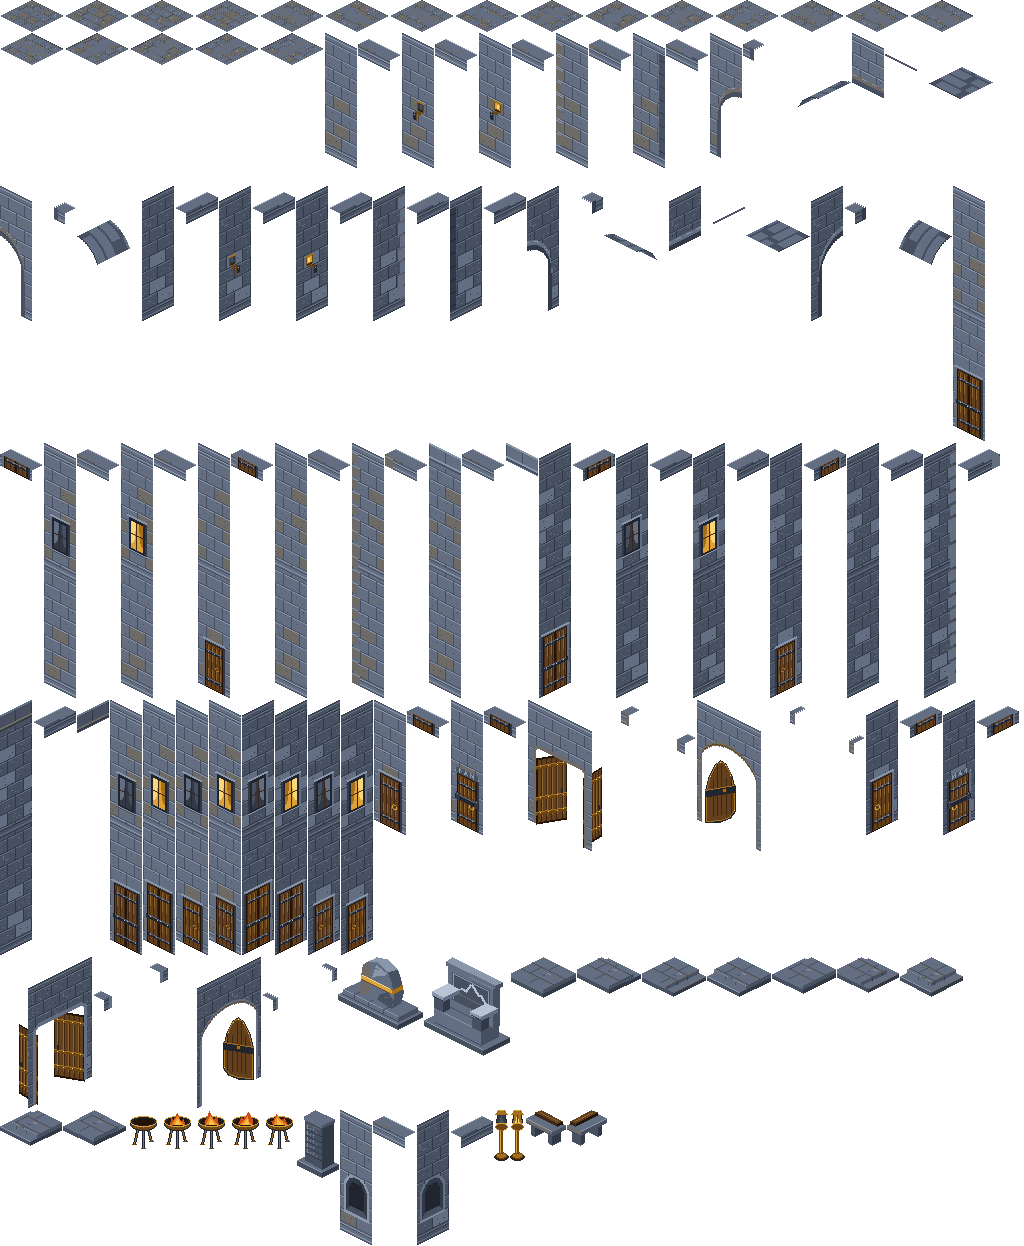
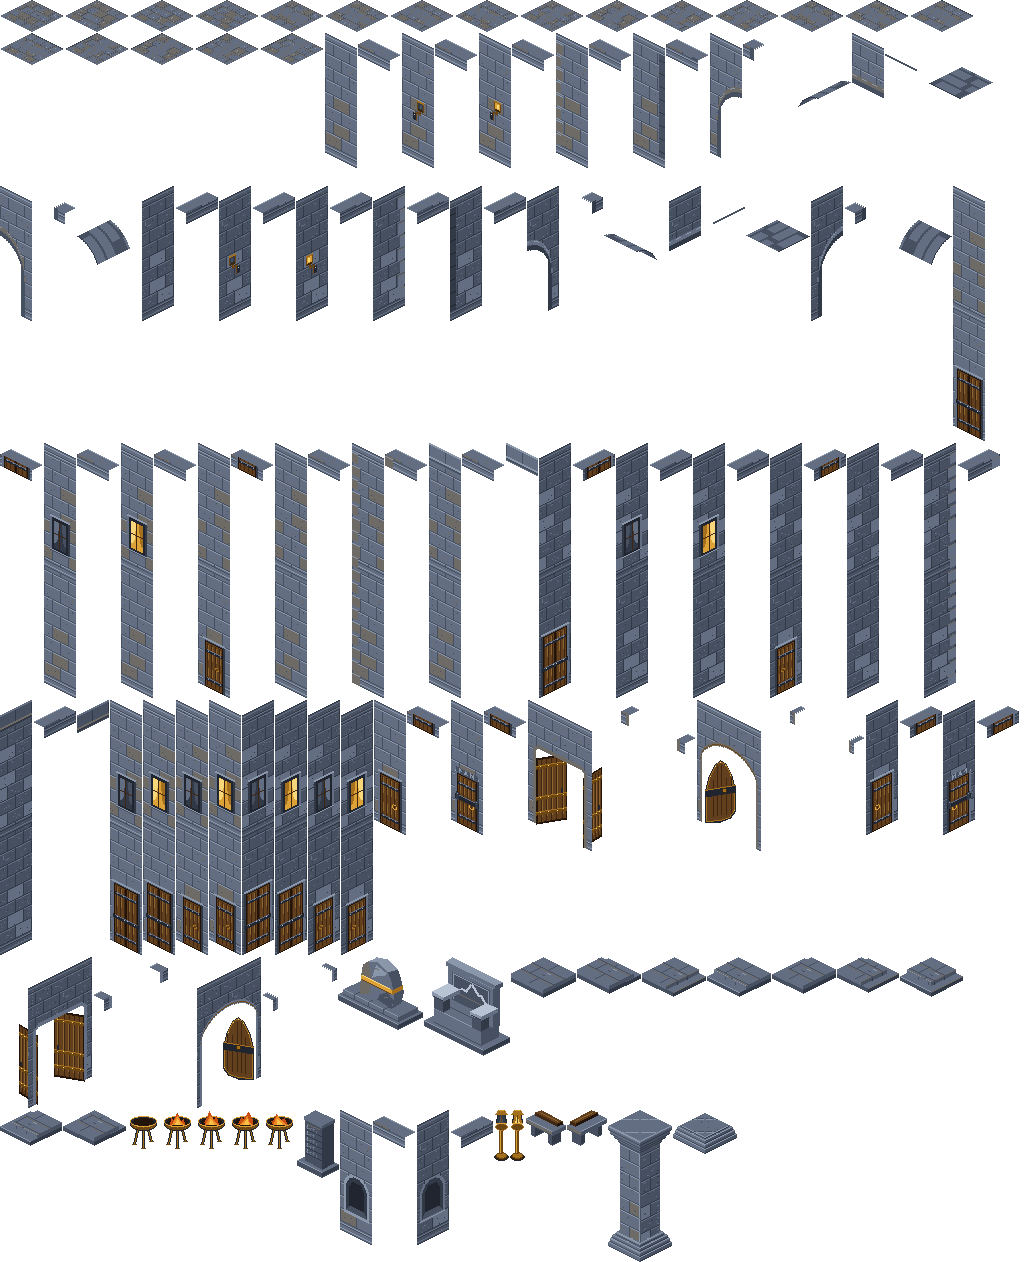
Solskaft: the temple pillar drawn from the art desk's ART-134 page 06
tools/solskaft-sheet.py takes page 06 (its CELLS.json anchored by the top
vertex already, so not moved from a centre); skstone_p1 gains temple_pillar
and its stub, both VERIFIED. deep16/js/skart.js ST.PIC.pillar: the cell in
place of the code's pillars, four down each closed temple's sides. The look
only: no square, door or way moves (bench solskaft1111 26 ok). An eyes row,
eyes-solskaft-pillar-1112b.

diff --git a/js/eyes.js b/js/eyes.js
@@ -77,6 +77,15 @@
     'eyes-solskaft-asdis-art-1112': { pri: 1, group: G2, title: 'ÁSDÍS SCALEBEAM\'S ROOM DRAWN from the art desk\'s page (11-12)', pt: 'the story build lane, 2026-11-12 (the Sólskaft cutter; deep16/js/skart.js)',
       url: 'deep16/?solskaft&fresh=1112d',
       look: 'Her room from ART-138, the look only: the show\'s asdis beat. Her hearth burning low in the north wall, the crockery shelf, the lit window, her table, her cot by the east wall, the stair head by the narrow door. JUDGE: the lit window is on the north wall where the camera sees it (the E word for the window still stands by the east wall).' },
+    'eyes-solskaft-pillar-1112b': { pri: 2, group: G2, title: 'SÓLSKAFT\'S TEMPLE PILLARS DRAWN: the art desk\'s pillar in place of the code\'s, four a side (11-12)', pt: 'the story build lane, 2026-11-12 (the ART-139 cutter; deep16/js/skart.js ST.PIC.pillar, tools/solskaft-sheet.py)',
+      url: 'deep16/?solskaft&beat=templestair&fresh=1112b',
+      look: 'The temple pillar the Sólskaft cutter asked after (ART-134 page 06): a square shaft of dressed granite on a stepped plinth, a capital on top, in place of the code\'s grey boxes -- four down the sides of each closed temple, nothing moved. The door opens in Rekknar\'s temple by the stair; the walls open round the party as you walk the hall. JUDGE: the pillar\'s height under the hall\'s walls; that it stands on its square\'s middle. &props=code shows the old pillars beside it.' },
+    'eyes-art139-portraits-1112': { pri: 1, group: G2, title: 'DORAN WITH THE WOODAXE, and the kept child as the girl and as the goblin: three talking portraits (11-12)', pt: 'the Halfway Inn lane, 2026-11-12 (the ART-139 cutter; tools/portrait-sheet.py doranaxe, keptchild, glamourgoblin)',
+      url: 'deep16/?portraits&who=doranaxe,keptchild,glamourgoblin&fresh=1112c',
+      look: 'Your "worth \'doran with an axe\' portraits" and "art request for girl and goblin", come back from the art desk (ART-139). Doran at the chopping block: idle, attentive, axe low, concerned, and the work -- the axe set down on the block, both hands on the haft. The girl: idle, afraid, looking up. The goblin of the glamour: idle, afraid -- cut at the girl\'s size and height, so the one swaps for the other when the glamour breaks. Doran\'s click at the woodpile wears his already; the girl\'s and the goblin\'s wait on the inn seat to name them in the yard\'s talk. JUDGE: the goblin reads as her with ears and olive skin, not the figure\'s green goblin -- enough for the glamour?' },
+    'eyes-keptchild-figure-1112': { pri: 1, group: G2, title: 'THE KEPT CHILD\'S OWN FIGURE on the floor, all eight facings (11-12)', pt: 'the Halfway Inn lane, 2026-11-12 (the ART-139 cutter; tools/keptchild-sheet.py keptchild_p1, deep16/data/foes.js keptchild)',
+      url: 'deep16/?rows=keptchild&sheet=keptchild_p1&fresh=1112d',
+      look: 'Ruling 42, a figure of her own: the girl in her too-big undyed dress, barefoot, idle and walking, the five drawn views and their mirrors (comma and period turn her). She stands at the townsfolk child\'s size, feet where the glamour\'s goblin stands. The art desk holds four of the walks (S, SE, NE, N: the legs\' exchange and the ankle mark) -- cut as drawn. JUDGE: the walks at the grid\'s pace. Not yet worn in the inn: the inn seat swaps her in for the townsfolk child.' },
     'eyes-solskaft-street-art-1112': { pri: 1, group: G2, title: 'SÓLSKAFT\'S STREET LEVEL DRAWN from the art desk\'s tiles and props (11-12)', pt: 'the story build lane, 2026-11-12 (the Sólskaft cutter; deep16/js/skart.js)',
       url: 'deep16/?solskaft&fresh=1112a',
       look: 'Your "we\'re going to need a boatload of sprite tiling", come back from the art desk (ART-134 and 135) and laid on main street -- the look only, nothing moved. Walk the show\'s street beats (doors, toll, stable, court, crown, throne, lodging, crownrooms): dressed flags worn down the walk, the stone walls with lamps by the lit squares, the two stores standing their two storeys with shut bays and Ásdís\'s lit window, the oathstone, the throne on its dais tiles, the braziers burning, the counters, the tariff board, the mangers and trough, the assay house\'s table and case, the guardroom\'s spear rack and bench. JUDGE: (1) the stores at 30 ft -- from the court their flat tops hide the street behind them; (2) the ramps carry the cart road\'s ruts, not the slope tiles (drawn for 12 px a square, the grid steps 20); (3) the pillars are still the code\'s (none was asked). &props=code shows the old look beside it.' },

diff --git a/deep16/js/skart.js b/deep16/js/skart.js
@@ -115,8 +115,8 @@
   };
   use('solskaft', ['lodging_door_with_window_dark_y', 'store_shut_y', 'store_shut_with_window_lit_y', 'window_dark_y', 'plain_tall_y', 'store_shut_with_window_dark_x', 'window_dark_x', 'plain_tall_x']);
   // the pieces the code drew that the cells take over (the code's own when no sheet has come)
-  ST.PIC = { oathstone: ['oathstone'], throne: ['throne', { lift: 8 }], stele: ['rekknar_ledger_stone'], scales: ['covered_assay_scales'] };
-  use('solskaft', ['oathstone', 'throne', 'rekknar_ledger_stone', 'covered_assay_scales', 'lodging_stair_y']);
+  ST.PIC = { oathstone: ['oathstone'], throne: ['throne', { lift: 8 }], stele: ['rekknar_ledger_stone'], scales: ['covered_assay_scales'], pillar: ['temple_pillar'] }; // (the pillar: ART-134 page 06, 11-12 -- the temples' four a side)
+  use('solskaft', ['oathstone', 'throne', 'rekknar_ledger_stone', 'covered_assay_scales', 'lodging_stair_y', 'temple_pillar']);
   // the things laid fresh where the code stood blocks: [name, x, r, opt] -- the counters, the desk, the stable's trough and fodder, the assay house's and the guardroom's
   ST.THINGS = [['trade_counter_x', 5, 3], ['quartermaster_counter_x', 6, 5], ['ledger_desk', 2, 4], ['water_trough_x', 33, 6], ['old_fodder', 34, 5],
     ['touch_needle_table', 11, 19], ['locked_weights_case', 13, 16], ['guardroom_bench_x', 26, 16]];

diff --git a/tools/solskaft-sheet.py b/tools/solskaft-sheet.py
@@ -17,7 +17,8 @@ THE ANCHOR, one convention on every sheet (as js/innprops.js reads its atlas): a
 a wall module's is its face's foot at its run-start (the left end of an `_x` face, the right end of a `_y` one) -- the art desk's own for walls. ART-134 drew its
 floors and props by their footprint's CENTRE; those are moved to the top vertex here: top = centre - ((a - b) * 16, (a + b) * 8) for a footprint a x b.
 
-Sheets (deep16/art/): skstone_p1 (ART-134, the stone: floors, walls one and two storeys, doors, the court and the temples), skstreet_p1 (ART-135: the ramps and
+Sheets (deep16/art/): skstone_p1 (ART-134, the stone: floors, walls one and two storeys, doors, the court and the temples; page 06, the temple pillar and its stub,
+came 11-12 by its own top-vertex anchor -- sorted to _src/ART-134-SOLSKAFT/PAGE-06-TEMPLE-PILLAR/ by the ART-139 cutter), skstreet_p1 (ART-135: the ramps and
 stairs, the tollhouse and the stable, the crown stretch), skcart_p1 (ART-136: the road and the drum, the works, the hand-cart and the gate), skfun_p1 (ART-137: the
 niche walls, the name wall, the chamber, the chapel and the seals), sklodge_p1 (ART-138: Ásdís Scalebeam's room). Each tile's name is the cell's id in lower case,
 '-' to '_'; its foot, facing, wall height and the page are in the sheet's `cells`.
@@ -103,7 +104,7 @@ def anchor(c):
     if is_wall(c): return ax, ay
     note = (c.get('notes') or '').lower()
     fa, fb = (c.get('footprint') or [1, 1])[:2]
-    if c['_art'] == 'ART-134-SOLSKAFT' and not is_wall(c):   # (ART-134 drew its floors and props by the footprint's centre)
+    if c['_art'] == 'ART-134-SOLSKAFT' and not is_wall(c) and not (c.get('anchor_kind') or '').startswith('top vertex'):   # (ART-134 drew its floors and props by the footprint's centre; page 06, the temple pillar, came by the top vertex already -- its CELLS.json `anchor_kind`)
         return ax - (fa - fb) * HW // 2, ay - (fa + fb) * HH // 2
     return ax, ay
 
